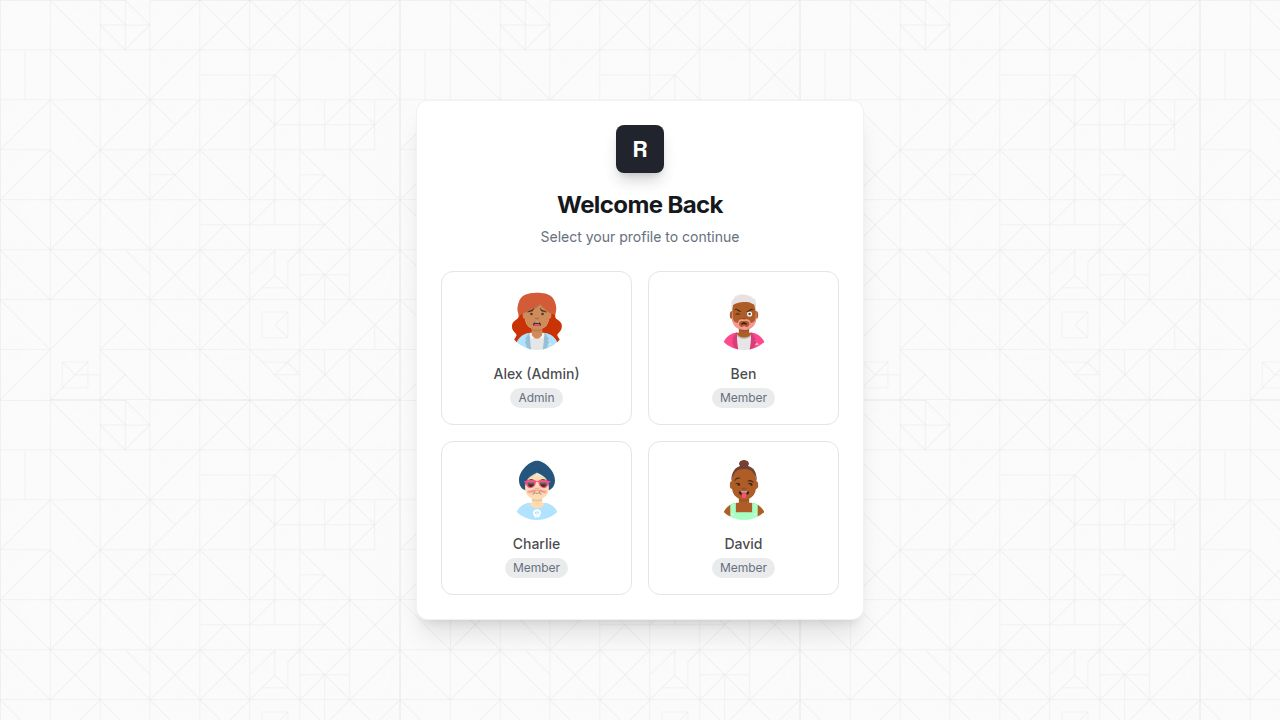
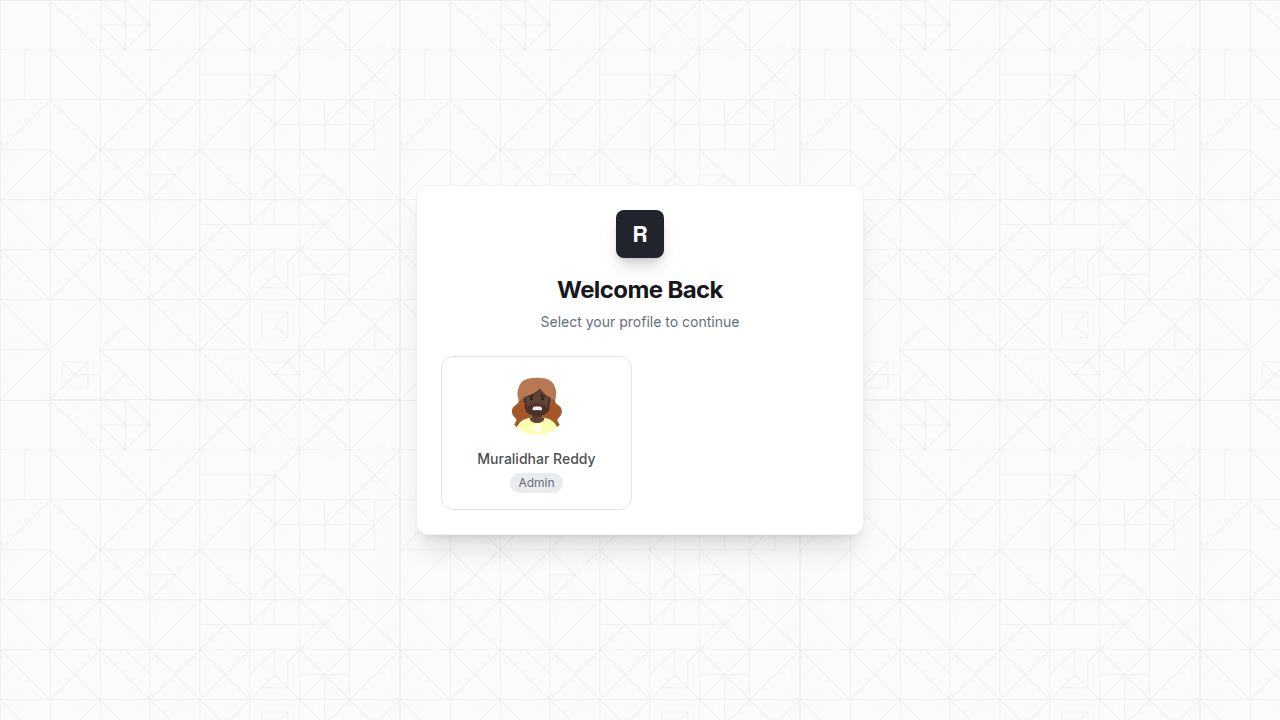
Update login and user management systems with new admin credentials
Reset all local storage data on logout to enforce initial admin setup and implement a secure login system with password protection.

Replit-Commit-Author: Agent
Replit-Commit-Session-Id: fdad4ca9-9b92-4fa8-bb4b-c5f19a4484ff
Replit-Commit-Checkpoint-Type: full_checkpoint
Replit-Commit-Event-Id: 32d0907a-13ae-4660-861e-5d2b197d19b9
Replit-Commit-Screenshot-Url: https://storage.googleapis.com/screenshot-production-us-central1/dbd4c46e-4af8-4b6a-90ae-745e8728b414/fdad4ca9-9b92-4fa8-bb4b-c5f19a4484ff/YYzBGHM
Replit-Helium-Checkpoint-Created: true

diff --git a/client/src/lib/mock-data.ts b/client/src/lib/mock-data.ts
@@ -2,10 +2,7 @@ import { User, Category, Expense, MonthStatus, Settlement } from './types';
 import { subDays, format } from 'date-fns';
 
 export const INITIAL_USERS: User[] = [
-  { id: 'u1', username: 'admin', name: 'Alex (Admin)', role: 'admin', avatar: 'https://api.dicebear.com/7.x/avataaars/svg?seed=Alex', password: 'admin' },
-  { id: 'u2', username: 'ben', name: 'Ben', role: 'member', avatar: 'https://api.dicebear.com/7.x/avataaars/svg?seed=Ben', password: 'password' },
-  { id: 'u3', username: 'charlie', name: 'Charlie', role: 'member', avatar: 'https://api.dicebear.com/7.x/avataaars/svg?seed=Charlie', password: 'password' },
-  { id: 'u4', username: 'david', name: 'David', role: 'member', avatar: 'https://api.dicebear.com/7.x/avataaars/svg?seed=David', password: 'password' },
+  { id: 'u1', username: 'admin', name: 'Muralidhar Reddy', role: 'admin', avatar: 'https://api.dicebear.com/7.x/avataaars/svg?seed=Murali', password: 'Murali_123' },
 ];
 
 export const INITIAL_CATEGORIES: Category[] = [

diff --git a/client/src/hooks/use-app-store.tsx b/client/src/hooks/use-app-store.tsx
@@ -87,7 +87,13 @@ export function AppProvider({ children }: { children: ReactNode }) {
 
   const logout = () => {
     setCurrentUser(null);
-    toast({ title: "Logged out" });
+    localStorage.removeItem('currentUser');
+    localStorage.removeItem('users');
+    localStorage.removeItem('expenses');
+    localStorage.removeItem('categories');
+    localStorage.removeItem('monthStatus');
+    localStorage.removeItem('settlements');
+    window.location.reload();
   };
 
   const addUser = (name: string, role: Role, password?: string) => {
